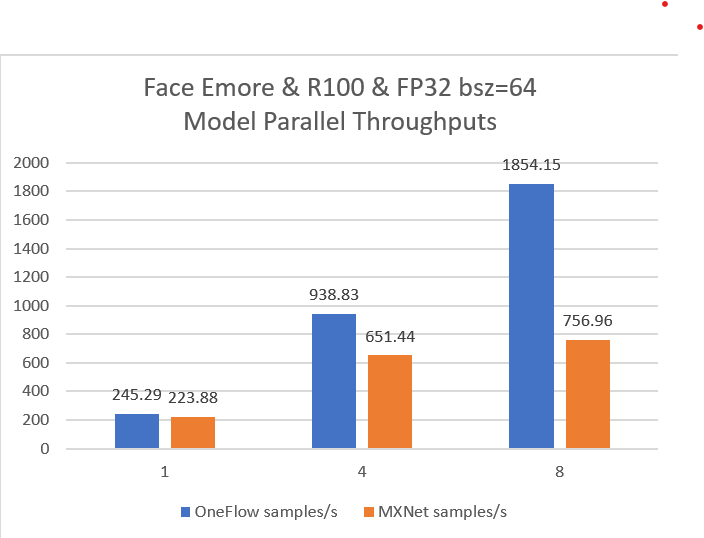
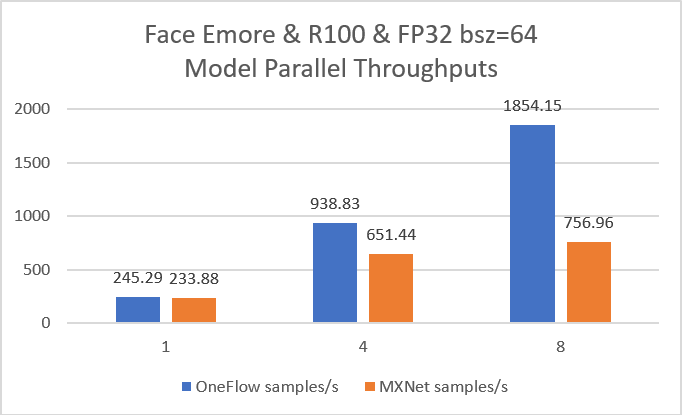
fix data

diff --git a/reports/dlperf_insightface_test_report_v1.md b/reports/dlperf_insightface_test_report_v1.md
@@ -103,7 +103,7 @@ In this report, num classes mean the number of face categories. In the tests, it
 
 | node_num | gpu_num_per_node | batch_size_per_device | OneFlow samples/s | MXNet samples/s |
 | -------- | ---------------- | --------------------- | ----------------- | --------------- |
-| 1        | 1                | 64                    | 245.29            | 223.88          |
+| 1        | 1                | 64                    | 245.29            | 233.88          |
 | 1        | 4                | 64                    | 938.83            | 651.44          |
 | 1        | 8                | 64                    | 1854.15           | 756.96          |
 
@@ -126,19 +126,19 @@ In this report, num classes mean the number of face categories. In the tests, it
 
 | node_num | gpu_num_per_node | batch_size_per_device | OneFlow samples/s | MXNet samples/s |
 | -------- | ---------------- | --------------------- | ----------------- | --------------- |
-| 1        | 1                | 64                    | 247.97            |    223.11             |
-| 1        | 4                | 64                    | 946.54            |  799.19               |
-| 1        | 8                | 64                    | 1864.31           |   1586.09              |
+| 1        | 1                | 64                    | 247.97            | 223.11          |
+| 1        | 4                | 64                    | 946.54            | 799.19          |
+| 1        | 8                | 64                    | 1864.31           | 1586.09         |
 
 ![ ](https://github.com/Oneflow-Inc/DLPerf/blob/dev_sx_insightface/reports/imgs/emore_r100_fp32_b64_pf_en.png)
 
 **batch_size=max**
 
 | node_num | gpu_num_per_node | OneFlow samples/s(max bsz=120) | MXNet samples/s(max bsz=104) |
-| -------- | ---------------- | ------------------------------ | -------------------------- |
-| 1        | 1                | 256.61                         |    232.56                      |
-| 1        | 4                | 990.82                         |       852.4                    |
-| 1        | 8                | 1962.76                        |     1644.42                       |
+| -------- | ---------------- | ------------------------------ | ---------------------------- |
+| 1        | 1                | 256.61                         | 232.56                       |
+| 1        | 4                | 990.82                         | 852.4                        |
+| 1        | 8                | 1962.76                        | 1644.42                      |
 
 ![ ](https://github.com/Oneflow-Inc/DLPerf/blob/dev_sx_insightface/reports/imgs/emore_r100_fp32_bmax_pf_en.png)
 
@@ -160,10 +160,10 @@ In this report, num classes mean the number of face categories. In the tests, it
 **batch_size = max**
 
 | node_num | gpu_num_per_node | OneFlow samples/s(max bsz=85) | MXNet samples/s(max bsz=?) |
-| -------- | ---------------- | ----------------------------- | --------------------------- |
-| 1        | 1                | 229.94                        | OOM                         |
-| 1        | 4                | 856.61                        | OOM                         |
-| 1        | 8                | 1707.03                       | OOM                         |
+| -------- | ---------------- | ----------------------------- | -------------------------- |
+| 1        | 1                | 229.94                        | OOM                        |
+| 1        | 4                | 856.61                        | OOM                        |
+| 1        | 8                | 1707.03                       | OOM                        |
 
 ![ ](https://github.com/Oneflow-Inc/DLPerf/blob/dev_sx_insightface/reports/imgs/glint360k_r100_fp32_bmax_dp_en.png)
 
@@ -263,7 +263,7 @@ In this report, num classes mean the number of face categories. In the tests, it
 | node_num | gpu_num_per_node | batch_size_per_device | FP16 | Model Parallel | Partial FC | OneFlow num_classes | MXNet   num_classes |
 | -------- | ---------------- | --------------------- | ---- | -------------- | ---------- | ------------------- | ------------------- |
 | 1        | 1                | 64                    | True | True           | True       | 2000000             | 1800000             |
-| 1        | 8                | 64                    | True | True           | True       | 13500000            | 12000000             |
+| 1        | 8                | 64                    | True | True           | True       | 13500000            | 12000000            |
 
 
 

diff --git a/reports/dlperf_insightface_test_report_v1_cn.md b/reports/dlperf_insightface_test_report_v1_cn.md
@@ -103,7 +103,7 @@ OneFlow 的实现与 MXNet 进行了严格对齐，主要包括：
 
 | node_num | gpu_num_per_node | batch_size_per_device | OneFlow samples/s | MXNet samples/s |
 | -------- | ---------------- | --------------------- | ----------------- | --------------- |
-| 1        | 1                | 64                    | 245.29            | 223.88          |
+| 1        | 1                | 64                    | 245.29            | 233.88          |
 | 1        | 4                | 64                    | 938.83            | 651.44          |
 | 1        | 8                | 64                    | 1854.15           | 756.96          |
 
